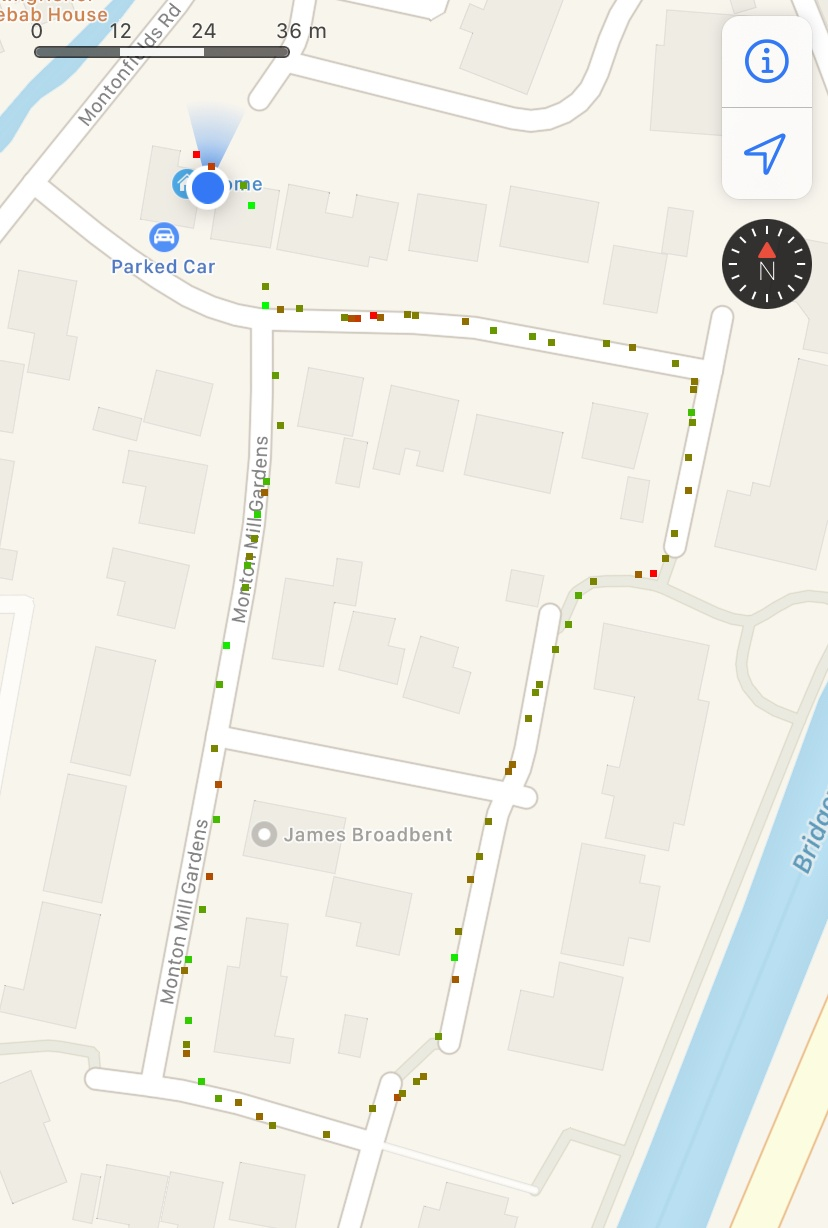
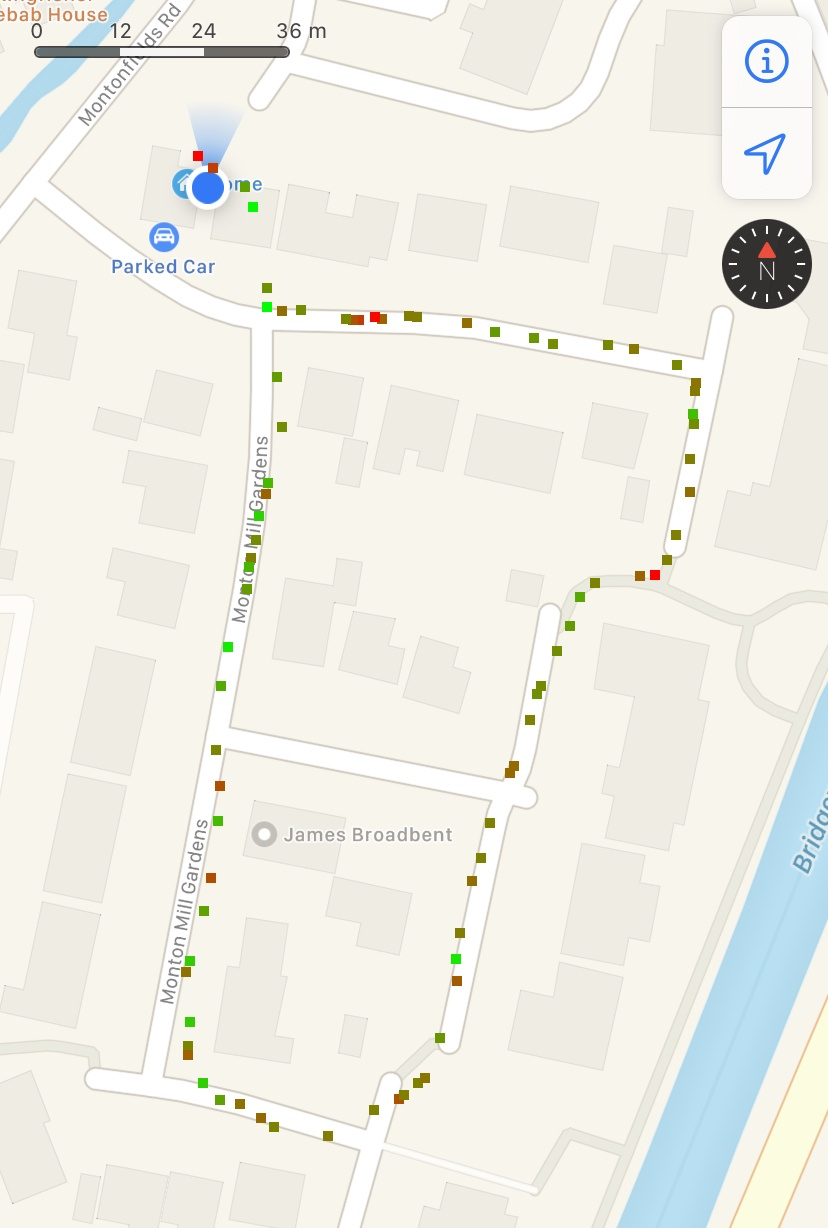
Added Garmin Connect map and updated readme

diff --git a/readme.md b/readme.md
@@ -29,4 +29,6 @@ When run, the code will load the coordinates and time stamp from the CSV file, i
 
 I determined the distance between points assuming the earth was a perfect sphere. At this scale, the difference between assumed and real world will probably be a few orders of magnitude less than a rounding error. I also used a mercator projection to overlay the points onto a 2D map. Again at this scale the dofference is trivial, and since as though apple maps use a mercator projection anyway, it's cancelled out. 
 
+The original Garmin Connect map is also included, for you to compare. 
+
 There are a few comments in the code disucssing why i opted to do things a certain way, i won't repeat them here. 
